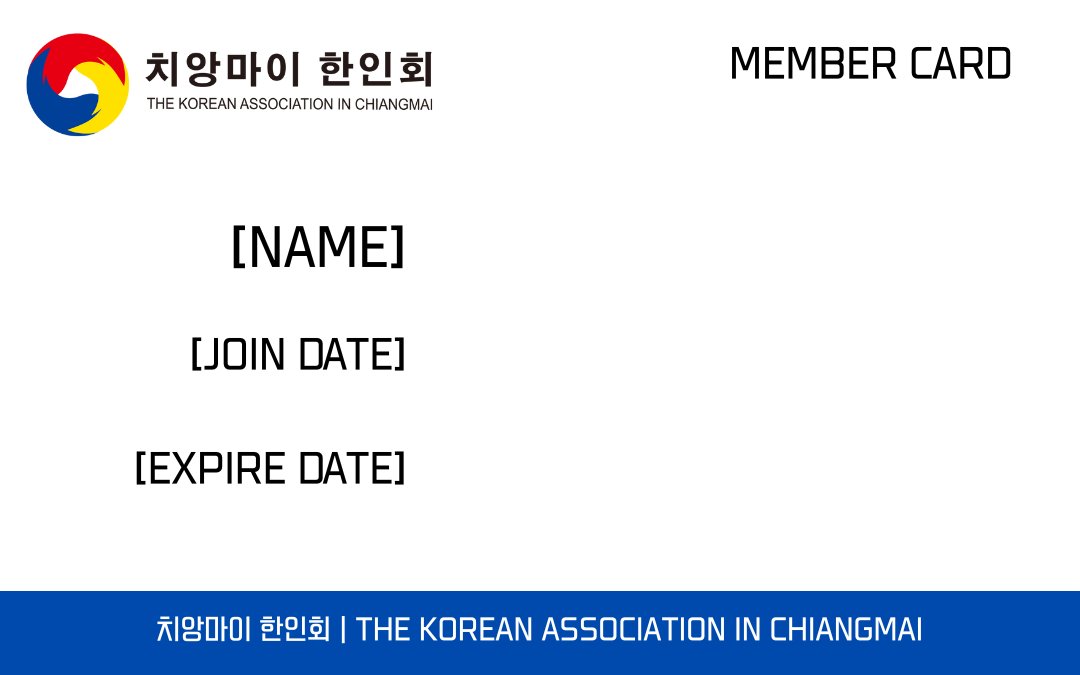
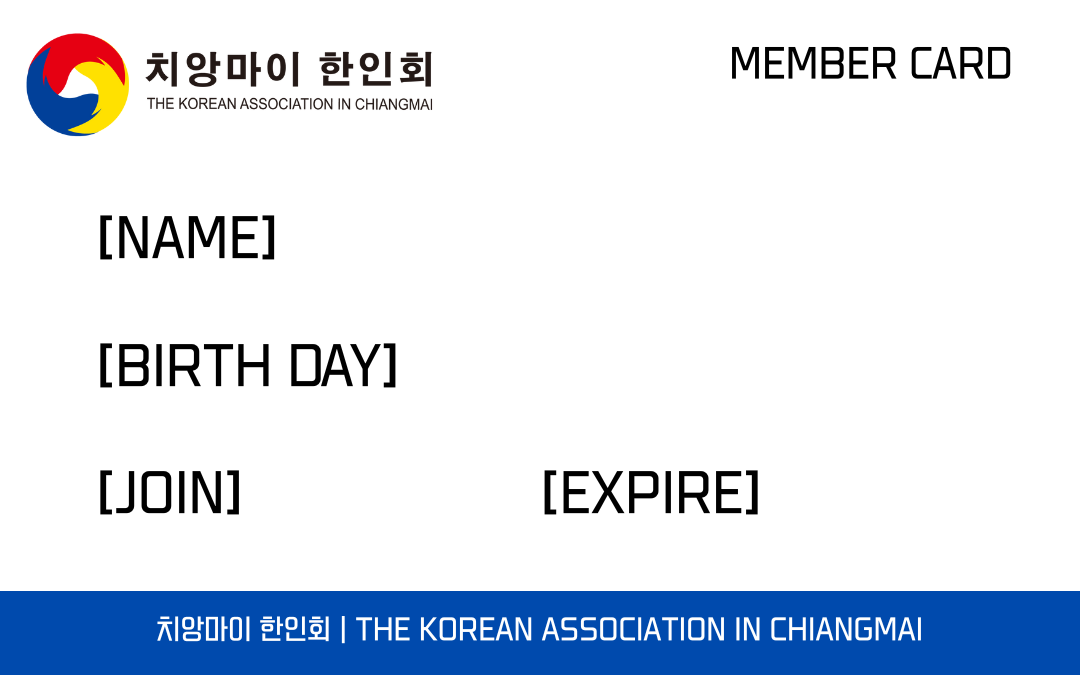
Add files via upload

diff --git a/index.html b/index.html
@@ -5,85 +5,111 @@
 <title>Member Card</title>
 
 <style>
-  body {
-    margin: 0;
-    min-height: 100vh;
-    display: flex;
-    justify-content: center;
-    align-items: center;
-    background: #f2f2f2;
-    font-family: sans-serif;
-  }
+body {
+  margin: 0;
+  min-height: 100vh;
+  display: flex;
+  justify-content: center;
+  align-items: center;
+  background: #f2f2f2;
+  font-family: sans-serif;
+}
 
-  .card-wrap {
-    text-align: center;
-  }
+.card-wrap {
+  text-align: center;
+}
 
-  #loading {
-    margin-bottom: 12px;
-    opacity: 0.7;
-    transition: opacity .4s ease;
-  }
+#loading {
+  margin-bottom: 12px;
+  opacity: .7;
+}
 
-  .card {
-    position: relative;
-    width: 360px;
-    max-width: 90vw;
-    border-radius: 18px;
-    overflow: hidden;
-    box-shadow: 0 14px 32px rgba(0,0,0,.15);
-    filter: blur(8px);
-    opacity: .6;
-    transition: all .5s ease;
-  }
+.card {
+  position: relative;
+  width: 360px;
+  max-width: 90vw;
+  border-radius: 18px;
+  overflow: hidden;
+  box-shadow: 0 14px 32px rgba(0,0,0,.15);
+  filter: blur(8px);
+  opacity: .6;
+  transition: all .5s ease;
+}
 
-  .card.loaded {
-    filter: blur(0);
-    opacity: 1;
-  }
+.card.loaded {
+  filter: blur(0);
+  opacity: 1;
+}
 
-  .card img {
-    width: 100%;
-    display: block;
-  }
+.card img {
+  width: 100%;
+  display: block;
+}
 
-  .field {
-    position: absolute;
-    left: 140px;
-    color: #222;
-    font-size: 16px;
-    font-weight: bold;
-    opacity: 0;
-    transform: translateY(6px);
-    transition: all .4s ease;
-  }
+.field {
+  position: absolute;
+  left: 30px;
+  color: #222;
+  opacity: 0;
+  transform: translateY(6px);
+  transition: all .4s ease;
+}
 
-  .field.show {
-    opacity: 1;
-    transform: translateY(0);
-  }
+.field.show {
+  opacity: 1;
+  transform: translateY(0);
+}
 
-  /* 🔧 ปรับตำแหน่งข้อความตรงนี้ */
-  .name   { top: 73.5px; }
-  .join   { top: 108px; }
-  .expire { top: 145px; }
+/* ===== layout ===== */
+.name-kr {
+  top: 65px;
+  right: 130px;
+  font-size: 18px;
+  font-weight: bold;
+}
 
-  .status {
-    position: absolute;
-    top: 35px;
-    right: 20px;
-    padding: 4px 10px;
-    font-size: 12px;
-    border-radius: 20px;
-    color: #fff;
-    font-weight: bold;
-    opacity: 0;
-    transition: opacity .4s ease;
-  }
+.name-en {
+  top: 69px;
+  right: -40px;
+  font-size: 18px;
+  font-weight: bold;
+}
 
-  .status.active  { background: #22c55e; }
-  .status.expired { background: #ef4444; }
-  .status.show    { opacity: 1; }
+.birth {
+  top: 115px;
+  right: 30px;
+  font-size: 15px;
+}
+
+.join {
+  top: 158px;
+  right: 130px;
+  font-size: 15px;
+}
+
+.expire {
+  top: 158px;
+  right: -215px;
+  font-size: 15px;
+}
+
+/* ===== status ===== */
+.status {
+  position: absolute;
+  top: 33px;
+  right: 20px;
+  padding: 4px 12px;
+  font-size: 12px;
+  border-radius: 20px;
+  color: #fff;
+  font-weight: bold;
+  opacity: 0;
+  transition: opacity .4s ease;
+}
+
+.status.active  { background: #22c55e; }
+.status.expired { background: #ef4444; }
+.status.show    { opacity: 1; }
 </style>
 </head>
 
@@ -95,21 +121,21 @@
   <div class="card" id="card">
     <img src="card.png">
     <div id="status" class="status"></div>
-    <div id="name" class="field name"></div>
-    <div id="join" class="field join"></div>
+
+    <div id="nameKr" class="field name-kr"></div>
+    <div id="nameEn" class="field name-en"></div>
+    <div id="birth"  class="field birth"></div>
+    <div id="join"   class="field join"></div>
     <div id="expire" class="field expire"></div>
   </div>
 </div>
 
 <script>
-/* ===============================
-   CONFIG
-================================ */
-const csvUrl = "https://docs.google.com/spreadsheets/d/e/2PACX-1vTH3k49gzRtNcKd8E32h5hz0rWkh3wKUkkPymfAh4NDtg0YZogVaCIV2YH8Ly68Gqhx7Fw6f4_UlGRj/pub?output=csv";
+/* ===== CONFIG ===== */
+const csvUrl =
+"https://docs.google.com/spreadsheets/d/e/2PACX-1vTH3k49gzRtNcKd8E32h5hz0rWkh3wKUkkPymfAh4NDtg0YZogVaCIV2YH8Ly68Gqhx7Fw6f4_UlGRj/pub?output=csv";
 
-/* ===============================
-   HELPERS
-================================ */
+/* ===== HELPERS ===== */
 function parseDateSafe(value) {
   if (!value) return null;
   const clean = value.replace(/"/g, "").trim();
@@ -117,71 +143,84 @@ function parseDateSafe(value) {
   return isNaN(d) ? null : d;
 }
 
-/* ===============================
-   MAIN
-================================ */
+function formatDateOnly(value) {
+  const d = parseDateSafe(value);
+  if (!d) return "";
+  const y = d.getFullYear();
+  const m = String(d.getMonth() + 1).padStart(2, "0");
+  const day = String(d.getDate()).padStart(2, "0");
+  return `${y}-${m}-${day}`;
+}
+
+/* ===== MAIN ===== */
 const params = new URLSearchParams(window.location.search);
 const memberId = params.get("id");
 
 if (!memberId) {
   document.body.innerHTML = "<h2>ไม่พบรหัสสมาชิก</h2>";
 } else {
-  fetch(csvUrl)
-    .then(r => r.text())
-    .then(text => {
 
-      const rows = text
-        .trim()
-        .split("\n")
-        .map(r => r.split(",").map(c => c.trim()));
+fetch(csvUrl)
+  .then(r => {
+    if (!r.ok) throw new Error();
+    return r.text();
+  })
+  .then(text => {
 
-      const headers = rows[0].map(h => h.toLowerCase());
-      const data = rows.slice(1);
+    const rows = text.trim().split("\n").map(r =>
+      r.split(",").map(c => c.replace(/(^"|"$)/g,"").trim())
+    );
 
-      const idIndex     = headers.indexOf("id");
-      const nameIndex   = headers.indexOf("name");
-      const joinIndex   = headers.indexOf("join_date");
-      const expireIndex = headers.indexOf("expire_date");
+    const headers = rows[0].map(h => h.toLowerCase());
+    const data = rows.slice(1);
 
-      const member = data.find(row => {
-        const sheetId = row[idIndex].toString().padStart(3, "0");
-        return sheetId === memberId;
-      });
+    const idIndex     = headers.indexOf("id");
+    const krIndex     = headers.indexOf("name_kr");
+    const enIndex     = headers.indexOf("name_en");
+    const birthIndex  = headers.indexOf("birth_date");
+    const joinIndex   = headers.indexOf("join_date");
+    const expireIndex = headers.indexOf("expire_date");
 
-      if (!member) {
-        document.body.innerHTML = "<h2>ไม่พบข้อมูลสมาชิก</h2>";
-        return;
-      }
+    const member = data.find(row =>
+      row[idIndex].replace(/^0+/,"") === memberId.replace(/^0+/,"")
+    );
 
-      const nameEl   = document.getElementById("name");
-      const joinEl   = document.getElementById("join");
-      const expireEl = document.getElementById("expire");
-      const card     = document.getElementById("card");
-      const status   = document.getElementById("status");
+    if (!member) {
+      document.body.innerHTML = "<h2>ไม่พบข้อมูลสมาชิก</h2>";
+      return;
+    }
 
-      nameEl.innerText   = member[nameIndex];
-      joinEl.innerText   = "สมัคร: " + member[joinIndex];
-      expireEl.innerText = "หมดอายุ: " + member[expireIndex];
+    document.getElementById("nameKr").innerText = member[krIndex];
+    document.getElementById("nameEn").innerText = member[enIndex];
+    document.getElementById("birth").innerText  = formatDateOnly(member[birthIndex]);
+    document.getElementById("join").innerText   = formatDateOnly(member[joinIndex]);
+    document.getElementById("expire").innerText = formatDateOnly(member[expireIndex]);
 
-      const today = new Date();
-      const expireDate = parseDateSafe(member[expireIndex]);
+    const today = new Date();
+    today.setHours(0,0,0,0);
+    const expireDate = parseDateSafe(member[expireIndex]);
 
-      if (expireDate && expireDate >= today) {
-        status.innerText = "ACTIVE";
-        status.className = "status active show";
-      } else {
-        status.innerText = "EXPIRED";
-        status.className = "status expired show";
-      }
+    const status = document.getElementById("status");
+    if (expireDate && expireDate >= today) {
+      status.innerText = "ACTIVE";
+      status.className = "status active show";
+    } else {
+      status.innerText = "EXPIRED";
+      status.className = "status expired show";
+    }
 
-      document.getElementById("loading").style.opacity = 0;
+    document.getElementById("loading").style.display = "none";
 
-      setTimeout(() => {
-        card.classList.add("loaded");
-        document.querySelectorAll(".field")
-          .forEach(el => el.classList.add("show"));
-      }, 300);
-    });
+    setTimeout(() => {
+      document.getElementById("card").classList.add("loaded");
+      document.querySelectorAll(".field")
+        .forEach(el => el.classList.add("show"));
+    }, 300);
+  })
+  .catch(() => {
+    document.body.innerHTML = "<h2>โหลดข้อมูลไม่สำเร็จ</h2>";
+  });
+
 }
 </script>
 
